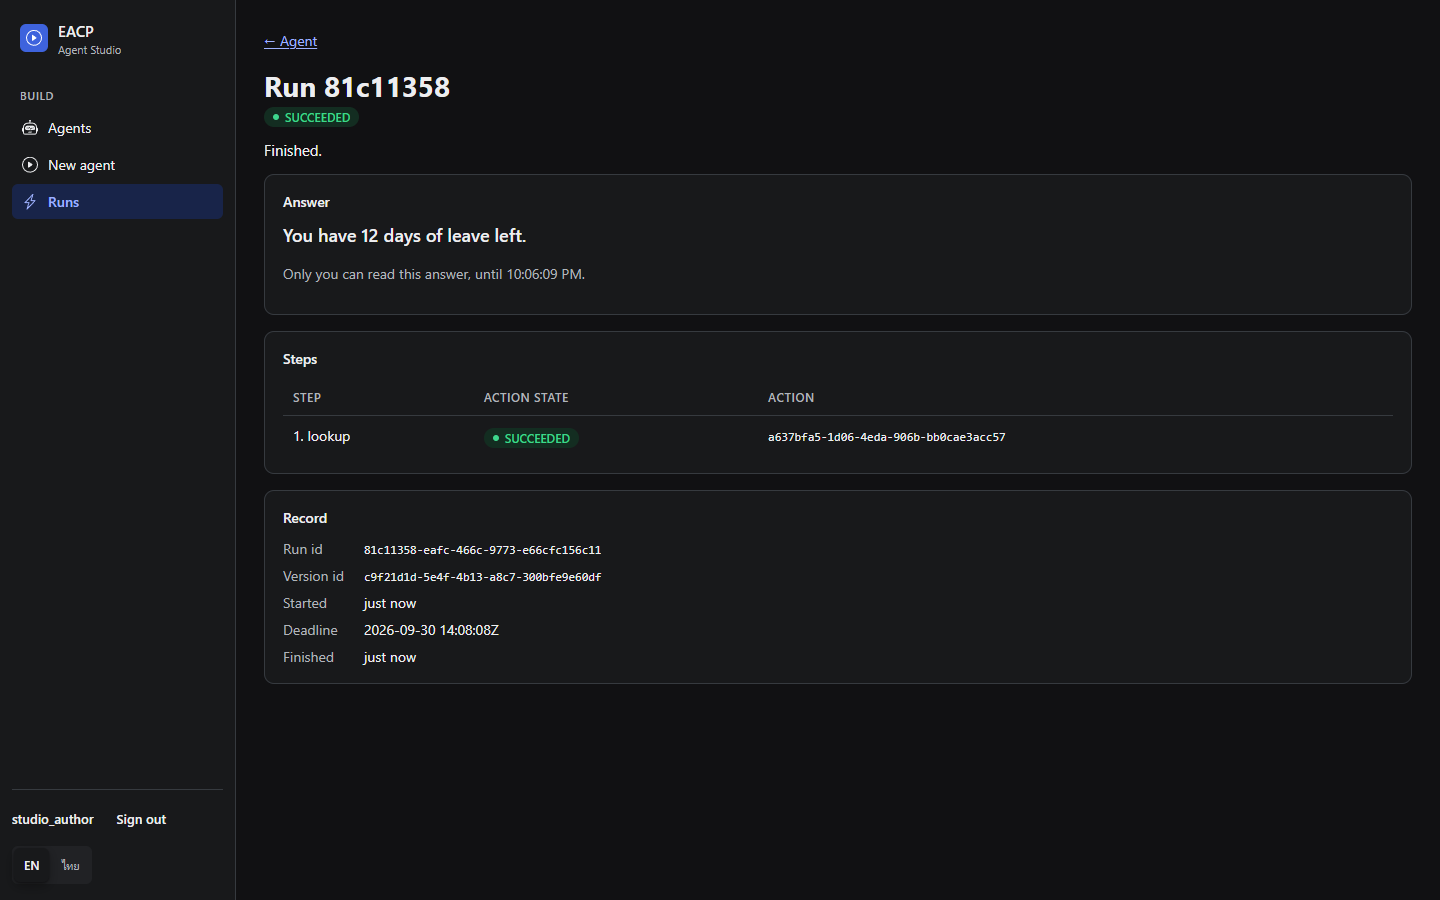
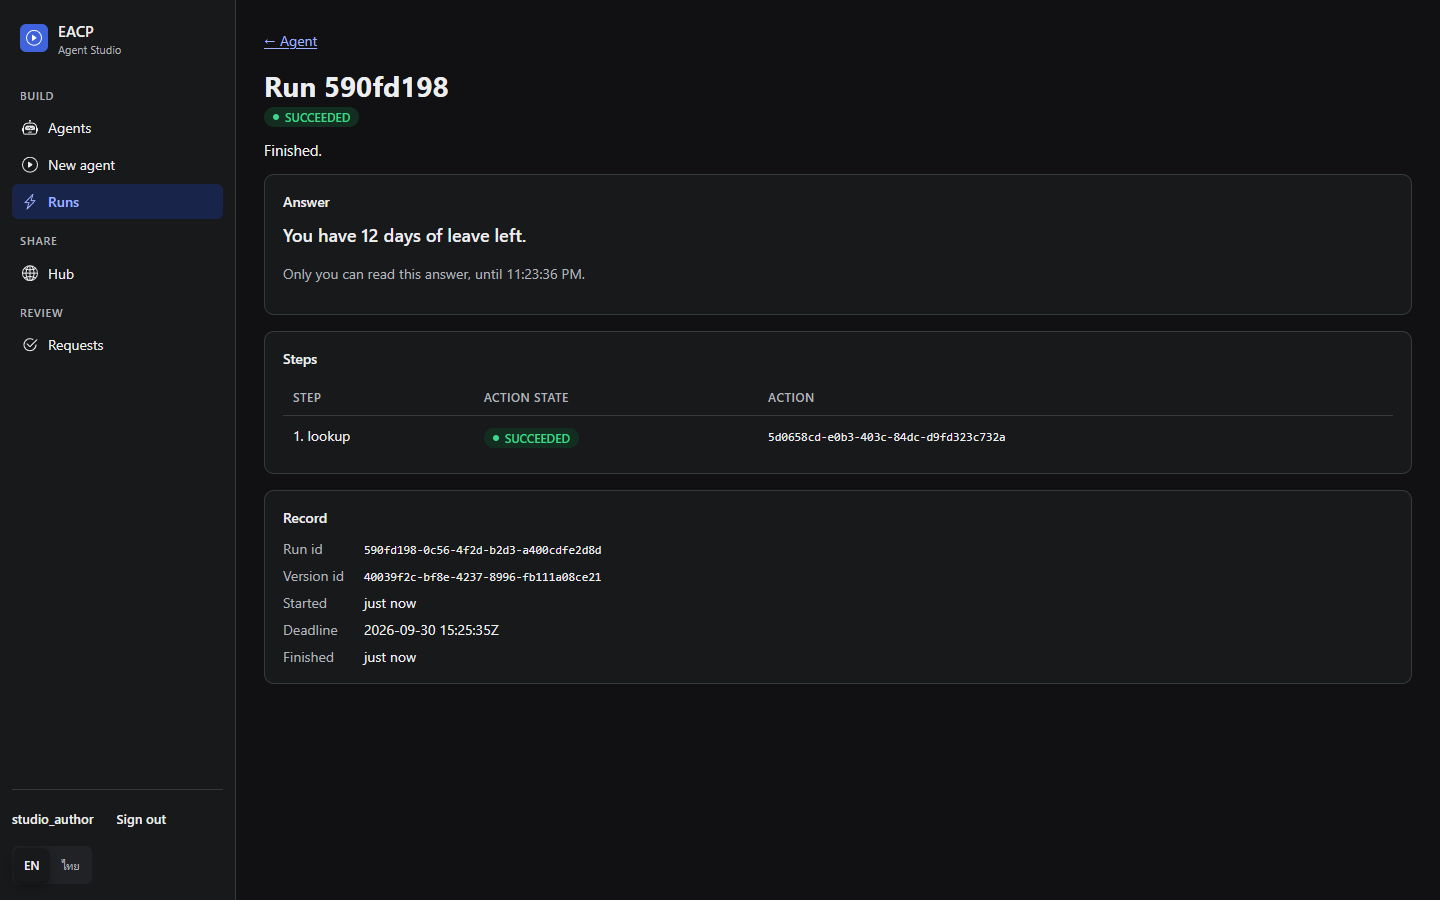
feat(demo): the Hub in the Studio demo, rita as HR lead in the examples, and the Hub screenshot (Phase 27b)

diff --git a/test/demo/studio_test.go b/test/demo/studio_test.go
@@ -26,7 +26,9 @@ const leaveAnswer = "You have 12 days of leave left."
 // TestStudioDemo is the Agent Studio thin slice through the API (ADR-033,
 // Phase 27a-3a): an HR employee's agent, approved by a second person, runs
 // in agent-runtime with a key derived from a master only the runtime holds,
-// and every side effect goes through the action path.
+// and every side effect goes through the action path. Phase 27b adds the
+// Hub: an HR lead publishes the agent to HR, a colleague runs it, and a
+// finance author's copy starts with no permission.
 func TestStudioDemo(t *testing.T) {
 	d := newDemo(t, tenantStudio)
 	if d.p.name() != "compose" {
@@ -36,11 +38,16 @@ func TestStudioDemo(t *testing.T) {
 	d.step("S0. Bootstrap tenant Wonka: people, the HR department and the runtime's own principal")
 	d.tenantWithCast("wonka", "Wonka", []member{
 		{"erin", "registry_editor"}, {"rita", "registry_approver"}, {"otto", "operator"}, {"audra", "auditor"},
-		{"stella", "studio_author"}, {"carol", "approver"},
+		{"stella", "studio_author"}, {"carol", "approver"}, {"hana", "approver"}, {"lena", "approver"},
+		{"finn", "studio_author"},
 	})
 	hr := d.must(201, "alice", "POST", "/v1/groups", map[string]any{"name": "hr", "display_name": "HR"})
-	d.must(201, "alice", "POST", "/v1/groups/"+hr["id"].(string)+"/members", map[string]any{"principal_id": d.ids["stella"]})
-	d.logf("stella (studio_author) is in HR; carol is not")
+	finance := d.must(201, "alice", "POST", "/v1/groups", map[string]any{"name": "finance", "display_name": "Finance"})
+	for who, g := range map[string]map[string]any{"stella": hr, "hana": hr, "lena": hr, "finn": finance} {
+		d.must(201, "alice", "POST", "/v1/groups/"+g["id"].(string)+"/members",
+			map[string]any{"principal_id": d.ids[who], "lead": who == "lena"})
+	}
+	d.logf("stella (studio_author) and hana are in HR, led by lena; finn (studio_author) is in finance; carol is in neither")
 	d.runtimePrincipal()
 	policy := d.must(201, "alice", "POST", "/v1/policies", map[string]any{"content": json.RawMessage(`{"format_version": 1,
 		"rules": [{"id": "hr-lookups", "match": {"target": "hr"}, "verdict": "allow", "reason": "read-only HR lookup"}]}`)})
@@ -117,13 +124,69 @@ func TestStudioDemo(t *testing.T) {
 		t.Fatalf("a failed run has an answer: %v", failed)
 	}
 
-	d.step("S6. otto revokes every Studio key: runs stop at once")
+	d.step("S6. The Hub: lena, HR's lead, publishes leave-bot to HR; hana runs it; finn's copy starts unapproved")
+	code, body = d.call("hana", "POST", "/v1/studio/agents/"+agent+"/runs", map[string]any{"inputs": map[string]string{"employee_id": "E-1"}})
+	if code != 403 {
+		t.Fatalf("hana ran an unpublished agent: %d %v", code, body)
+	}
+	d.logf("before it is published only its owner runs it: hana, in HR, gets HTTP %d", code)
+	proposal := d.must(201, "stella", "POST", "/v1/studio/agents/"+agent+"/listing", map[string]any{"version_id": version,
+		"scope": "DEPARTMENT", "tags": []string{"leave", "hr"}, "note": "for everyone in HR"})
+	decide := "/v1/studio/listing-proposals/" + proposal["id"].(string) + "/approve"
+	code, body = d.call("stella", "POST", decide, map[string]any{"reason": "mine"})
+	if code != 409 {
+		t.Fatalf("stella published her own agent: %d %v", code, body)
+	}
+	code, body = d.call("rita", "POST", decide, map[string]any{"reason": "looks fine"})
+	if code != 403 {
+		t.Fatalf("a registry approver published to a department: %d %v", code, body)
+	}
+	d.must(200, "lena", "POST", decide, map[string]any{"reason": "useful for HR"})
+	d.logf("stella proposes it to HR: she cannot publish it herself (HTTP 409), nor can rita (HTTP 403); lena, HR's lead, publishes it")
+	hub := d.must(200, "hana", "GET", "/v1/studio/hub", nil)
+	listings := hub["listings"].([]any)
+	if len(listings) != 1 || listings[0].(map[string]any)["runnable"] != true {
+		t.Fatalf("hana's Hub = %v", hub)
+	}
+	listing := listings[0].(map[string]any)["id"].(string)
+	colleague := d.waitRunAs("hana", d.runAs("hana", agent, "E-1"), "SUCCEEDED", "")
+	if colleague["answer"] != leaveAnswer {
+		t.Fatalf("hana's answer = %v", colleague["answer"])
+	}
+	hanaStep := d.must(200, "audra", "GET", "/v1/actions/"+colleague["steps"].([]any)[0].(map[string]any)["action_id"].(string), nil)
+	if hanaStep["agent_version_id"] != version || hanaStep["subject"] != "hana@wonka.test" {
+		t.Fatalf("hana's step = %v", hanaStep)
+	}
+	d.logf("hana finds it in the Hub and runs it as herself: the same version, her own subject, her own answer")
+	if got := d.must(200, "finn", "GET", "/v1/studio/hub", nil)["listings"].([]any); len(got) != 0 {
+		t.Fatalf("finn sees HR's listing: %v", got)
+	}
+	org := d.must(201, "stella", "POST", "/v1/studio/agents/"+agent+"/listing", map[string]any{"version_id": version,
+		"scope": "ORG", "tags": []string{"leave", "hr"}})
+	code, body = d.call("lena", "POST", "/v1/studio/listing-proposals/"+org["id"].(string)+"/approve", map[string]any{"reason": "wider"})
+	if code != 403 {
+		t.Fatalf("a department lead published to the organisation: %d %v", code, body)
+	}
+	d.must(200, "rita", "POST", "/v1/studio/listing-proposals/"+org["id"].(string)+"/approve", map[string]any{"reason": "useful for everyone"})
+	d.logf("finance saw nothing until rita (not lena, HTTP %d) published it to the organisation", code)
+	clone := d.must(201, "finn", "POST", "/v1/studio/listings/"+listing+"/clone", map[string]any{"name": "finance-leave-bot",
+		"display_name": "Leave balance (finance)", "department_id": finance["id"]})
+	if clone["status"] != "waiting_for_approval" {
+		t.Fatalf("clone = %v", clone)
+	}
+	code, body = d.call("finn", "POST", "/v1/studio/agents/"+clone["agent_id"].(string)+"/runs", map[string]any{"inputs": map[string]string{"employee_id": "E-1"}})
+	if code != 409 {
+		t.Fatalf("finn ran an unapproved copy: %d %v", code, body)
+	}
+	d.logf("finn copies it into finance: the copy is %v and cannot run (HTTP %d); it carries no permission", clone["status"], code)
+
+	d.step("S7. otto revokes every Studio key: runs stop at once")
 	revoked := d.must(200, "otto", "POST", "/v1/studio/credentials/revoke-all", map[string]any{"reason": "suspected runtime compromise (demo)"})
 	d.logf("otto revokes %v Studio key(s)", revoked["revoked"])
 	d.waitRun(d.runAs("stella", agent, "E-1"), "FAILED", "credential_pending")
 	d.logf("the next run fails closed: credential_pending, until a new key is proposed and approved")
 
-	d.step("S7. No master, derived key or runtime key anywhere; the answer is in no log and no journal entry")
+	d.step("S8. No master, derived key or runtime key anywhere; the answer is in no log and no journal entry")
 	d.studioScan(master, key)
 	v := d.must(200, "audra", "GET", "/v1/audit/verify", nil)
 	if v["valid"] != true {
@@ -230,9 +293,15 @@ func (d *demo) runAs(who, agent, employee string) string {
 // as stella sees it.
 func (d *demo) waitRun(run, state, reason string) map[string]any {
 	d.t.Helper()
+	return d.waitRunAs("stella", run, state, reason)
+}
+
+// waitRunAs is waitRun as who sees the run.
+func (d *demo) waitRunAs(who, run, state, reason string) map[string]any {
+	d.t.Helper()
 	deadline := time.Now().Add(120 * time.Second)
 	for {
-		got := d.must(200, "stella", "GET", "/v1/studio/runs/"+run, nil)
+		got := d.must(200, who, "GET", "/v1/studio/runs/"+run, nil)
 		if s := got["state"]; s == "SUCCEEDED" || s == "FAILED" {
 			if s != state || (reason != "" && got["failure_reason"] != reason) {
 				d.t.Fatalf("run %s = %v, want %s %s\nruntime log:\n%s", run, got, state, reason, d.p.runtimeLogs())

diff --git a/examples/setup/main_test.go b/examples/setup/main_test.go
@@ -12,8 +12,14 @@ import (
 )
 
 // fakeAPI accepts the principal keys in people on /v1/me and the agent keys
-// in agents on /v1/agent/self, like the control plane does.
+// in agents on /v1/agent/self, like the control plane does. rita's /v1/me
+// shows her leading hr.
 func fakeAPI(t *testing.T, people, agents []string) *httptest.Server {
+	return fakeAPIWithRita(t, people, agents, `{"groups": [{"name": "hr", "lead": true}]}`)
+}
+
+// fakeAPIWithRita is fakeAPI with rita's /v1/me body.
+func fakeAPIWithRita(t *testing.T, people, agents []string, rita string) *httptest.Server {
 	t.Helper()
 	ok := func(keys []string, r *http.Request) bool {
 		for _, k := range keys {
@@ -25,6 +31,8 @@ func fakeAPI(t *testing.T, people, agents []string) *httptest.Server {
 	}
 	srv := httptest.NewServer(http.HandlerFunc(func(w http.ResponseWriter, r *http.Request) {
 		switch {
+		case r.URL.Path == "/v1/me" && ok(people, r) && r.Header.Get("Authorization") == "Bearer rita":
+			_, _ = w.Write([]byte(rita))
 		case r.URL.Path == "/v1/me" && ok(people, r), r.URL.Path == "/v1/agent/self" && ok(agents, r):
 			_, _ = w.Write([]byte(`{}`))
 		default:
@@ -45,9 +53,9 @@ func envFile(t *testing.T, env map[string]string) string {
 }
 
 var fullEnv = map[string]string{"EACP_API": "x", "ADMIN_KEY": "admin", "OPERATOR_KEY": "otto", "AGENT_KEY": "agent",
-	"STUDIO_AUTHOR_KEY": "stella", "STUDIO_RUNTIME_KEY": "runtime"}
+	"STUDIO_AUTHOR_KEY": "stella", "STUDIO_RUNTIME_KEY": "runtime", "REGISTRY_APPROVER_KEY": "rita"}
 
-var allPeople = []string{"admin", "otto", "stella", "runtime"}
+var allPeople = []string{"admin", "otto", "stella", "runtime", "rita"}
 
 func setupFor(srv *httptest.Server) *setup {
 	return &setup{api: srv.URL, http: srv.Client(), keys: map[string]string{}, env: map[string]string{}, ids: map[string]string{}}
@@ -66,8 +74,8 @@ func TestAlreadySetUpWhenEveryKeyWorks(t *testing.T) {
 func TestAlreadySetUpRefusesAnyKeyThatNoLongerWorks(t *testing.T) {
 	for name, srv := range map[string]*httptest.Server{
 		"AGENT_KEY":          fakeAPI(t, allPeople, nil),
-		"OPERATOR_KEY":       fakeAPI(t, []string{"admin", "stella", "runtime"}, []string{"agent"}),
-		"STUDIO_RUNTIME_KEY": fakeAPI(t, []string{"admin", "otto", "stella"}, []string{"agent"}),
+		"OPERATOR_KEY":       fakeAPI(t, []string{"admin", "stella", "runtime", "rita"}, []string{"agent"}),
+		"STUDIO_RUNTIME_KEY": fakeAPI(t, []string{"admin", "otto", "stella", "rita"}, []string{"agent"}),
 	} {
 		done, err := setupFor(srv).alreadySetUp(context.Background(), envFile(t, fullEnv))
 		if done || err == nil || !strings.Contains(err.Error(), name) || !strings.Contains(err.Error(), resetHint) {
@@ -111,5 +119,22 @@ func TestAnEnvWithoutTheStudioKeysAsksForAReset(t *testing.T) {
 	done, err := setupFor(srv).alreadySetUp(context.Background(), envFile(t, old))
 	if done || err == nil || !strings.Contains(err.Error(), "STUDIO_AUTHOR_KEY") || !strings.Contains(err.Error(), resetHint) {
 		t.Fatalf("done=%v err=%v, want an error naming the missing Studio key and the reset instructions", done, err)
+	}
+}
+
+// An .env written before the Agent Hub (Phase 27b) belongs to a tenant where
+// rita does not lead HR, so nobody could publish leave-bot for the
+// screenshots: setup must ask for a reset rather than reuse it.
+func TestAnEnvWhereRitaDoesNotLeadHRAsksForAReset(t *testing.T) {
+	for name, rita := range map[string]string{
+		"no group": `{"groups": []}`,
+		"a member": `{"groups": [{"name": "hr", "lead": false}]}`,
+		"no field": `{}`,
+	} {
+		srv := fakeAPIWithRita(t, allPeople, []string{"agent"}, rita)
+		done, err := setupFor(srv).alreadySetUp(context.Background(), envFile(t, fullEnv))
+		if done || err == nil || !strings.Contains(err.Error(), "lead") || !strings.Contains(err.Error(), resetHint) {
+			t.Errorf("%s: done=%v err=%v, want an error about the HR lead with the reset instructions", name, done, err)
+		}
 	}
 }

diff --git a/examples/setup/main.go b/examples/setup/main.go
@@ -46,7 +46,7 @@ const keyDays = 90
 // people are the tenant's members after alice and bob, the admins.
 var people = []struct{ name, role, env string }{
 	{"erin", "registry_editor", "EDITOR_KEY"},
-	{"rita", "registry_approver", "REGISTRY_APPROVER_KEY"},
+	{"rita", "registry_approver", "REGISTRY_APPROVER_KEY"}, // also leads the HR group
 	{"ravi", "registry_approver", ""},
 	{"otto", "operator", "OPERATOR_KEY"},
 	{"olga", "operator", "OPERATOR2_KEY"},
@@ -58,7 +58,7 @@ var people = []struct{ name, role, env string }{
 
 // requiredKeys are the keys a reusable examples/.env must hold: one written
 // before a newer setup step is refused with the reset instructions.
-var requiredKeys = []string{"ADMIN_KEY", "AGENT_KEY", "STUDIO_AUTHOR_KEY", "STUDIO_RUNTIME_KEY"}
+var requiredKeys = []string{"ADMIN_KEY", "AGENT_KEY", "REGISTRY_APPROVER_KEY", "STUDIO_AUTHOR_KEY", "STUDIO_RUNTIME_KEY"}
 
 type setup struct {
 	api   string
@@ -184,7 +184,7 @@ func (s *setup) alreadySetUp(ctx context.Context, path string) (bool, error) {
 			route = "/v1/agent/self"
 		}
 		s.keys[k] = env[k]
-		code, _, err := s.call(ctx, k, "GET", route, nil)
+		code, body, err := s.call(ctx, k, "GET", route, nil)
 		if err != nil {
 			return false, err
 		}
@@ -192,8 +192,23 @@ func (s *setup) alreadySetUp(ctx context.Context, path string) (bool, error) {
 			return false, fmt.Errorf("examples/.env exists but its %s is not accepted (HTTP %d): the stack was reset "+
 				"or the key expired; %s", k, code, resetHint)
 		}
+		if k == "REGISTRY_APPROVER_KEY" && !leadsHR(body) {
+			return false, fmt.Errorf("examples/.env was written before rita became the HR lead who publishes "+
+				"leave-bot in the Agent Hub; %s", resetHint)
+		}
 	}
 	return true, nil
+}
+
+// leadsHR reports whether a /v1/me body shows the caller leading the hr group.
+func leadsHR(me map[string]any) bool {
+	groups, _ := me["groups"].([]any)
+	for _, g := range groups {
+		if m, _ := g.(map[string]any); m["name"] == "hr" && m["lead"] == true {
+			return true
+		}
+	}
+	return false
 }
 
 // newKey generates who's key and returns the credential id and the hash
@@ -392,9 +407,13 @@ func (s *setup) studio(ctx context.Context) error {
 	if err != nil {
 		return err
 	}
-	if _, err := s.must(ctx, 201, "alice", "POST", "/v1/groups/"+id(g)+"/members",
-		map[string]any{"principal_id": s.ids["stella"]}); err != nil {
-		return err
+	// stella saves agents into HR; rita leads HR, so she publishes its
+	// agents in the Agent Hub (a lead is set only when the membership is added).
+	for who, lead := range map[string]bool{"stella": false, "rita": true} {
+		if _, err := s.must(ctx, 201, "alice", "POST", "/v1/groups/"+id(g)+"/members",
+			map[string]any{"principal_id": s.ids[who], "lead": lead}); err != nil {
+			return err
+		}
 	}
 	p, err := s.must(ctx, 201, "alice", "POST", "/v1/principals", map[string]any{"kind": "service",
 		"name": "studio-runtime", "display_name": "Agent runtime"})
